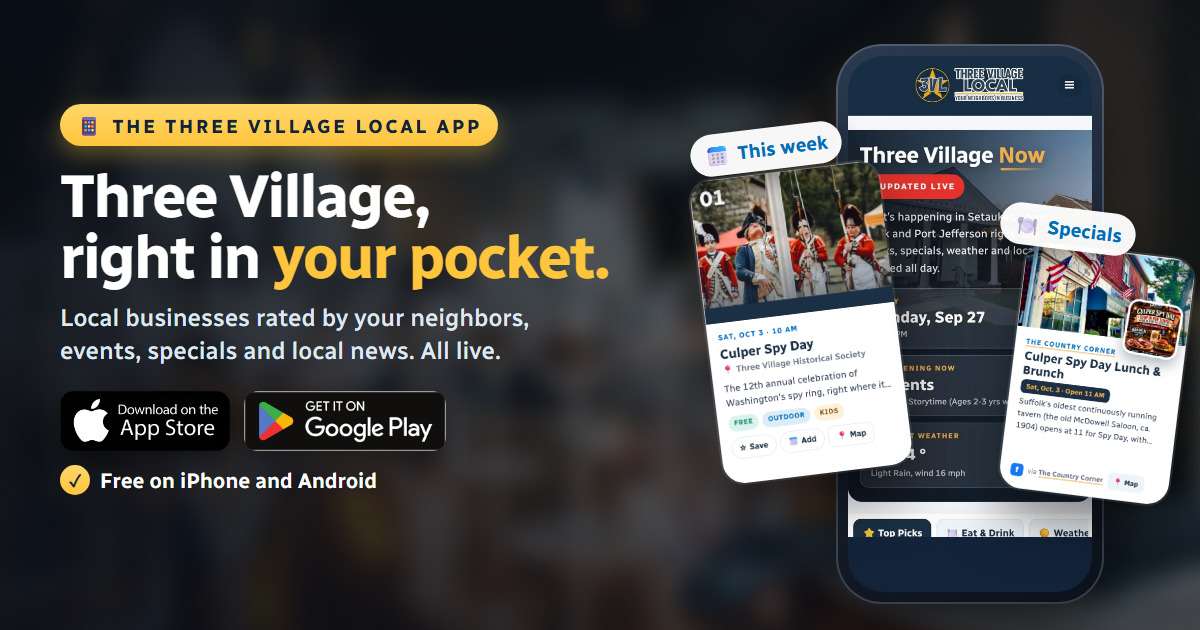
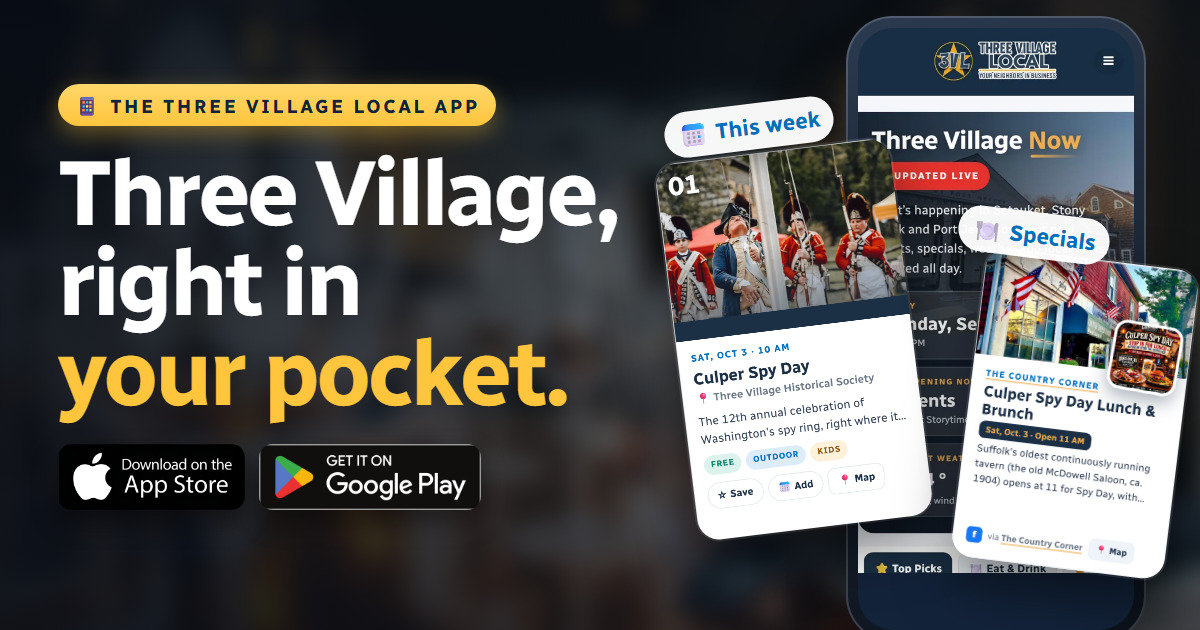
App share image: bigger headline and photos, no small text

diff --git a/weekender/ads/og-app.html b/weekender/ads/og-app.html
@@ -6,30 +6,29 @@ html,body{width:1200px;height:630px;overflow:hidden;background:#0c1624;font-fami
 .og{position:relative;width:1200px;height:630px;overflow:hidden}
 .photo{position:absolute;inset:-60px;background:url(fine12.jpg) center 55%/cover;filter:blur(12px) saturate(1.2) brightness(.95)}
 .vig{position:absolute;inset:0;background:radial-gradient(ellipse at 70% 50%,rgba(8,12,20,.25) 0%,rgba(8,12,20,.5) 55%,rgba(8,12,20,.8) 100%),linear-gradient(90deg,rgba(8,12,20,.78) 0%,rgba(8,12,20,.45) 50%,rgba(8,12,20,.1) 100%)}
-.copy{position:absolute;left:60px;top:104px;width:610px;z-index:5}
+.copy{position:absolute;left:58px;top:84px;width:640px;z-index:5}
 .kick{display:inline-flex;align-items:center;gap:10px;padding:8px 16px;border-radius:999px;background:linear-gradient(180deg,#ffd76a,#ffc53d);color:#13233a;font-size:19px;font-weight:700;letter-spacing:.14em;text-transform:uppercase;box-shadow:0 8px 22px rgba(255,197,61,.35)}
-h1{font-size:60px;font-weight:700;line-height:1.02;letter-spacing:-.03em;margin:20px 0 14px}
+h1{font-size:92px;font-weight:700;line-height:.98;letter-spacing:-.035em;margin:22px 0 26px}
 h1 span{color:#ffc53d;white-space:nowrap}
 .sub{font-size:24px;font-weight:500;line-height:1.35;color:#dfe8f2;max-width:540px}
 .btns{display:flex;gap:14px;margin-top:24px}
-.btns img{height:60px;border-radius:14px;box-shadow:0 12px 26px rgba(0,0,0,.45)}
+.btns img{height:66px;border-radius:14px;box-shadow:0 12px 26px rgba(0,0,0,.45)}
 .free{margin-top:14px;font-size:21px;font-weight:600;color:#fff;display:flex;align-items:center;gap:10px}
 .free i{display:inline-flex;align-items:center;justify-content:center;width:30px;height:30px;border-radius:50%;background:linear-gradient(180deg,#ffd76a,#ffc53d);color:#13233a;font-style:normal;font-weight:800;font-size:17px}
-.phone{position:absolute;left:836px;top:44px;width:268px;height:560px;border-radius:46px;padding:12px;background:linear-gradient(160deg,#2b3a4f,#0b111a);box-shadow:0 40px 80px rgba(0,0,0,.6),inset 0 0 0 2px rgba(255,255,255,.18);z-index:3}
+.phone{position:absolute;left:846px;top:16px;width:300px;height:626px;border-radius:46px;padding:12px;background:linear-gradient(160deg,#2b3a4f,#0b111a);box-shadow:0 40px 80px rgba(0,0,0,.6),inset 0 0 0 2px rgba(255,255,255,.18);z-index:3}
 .screen{width:100%;height:100%;border-radius:35px;background:#13233a url(poster.webp) top/100% auto no-repeat}
 .card{position:absolute;border-radius:22px;overflow:hidden;box-shadow:0 26px 54px rgba(0,0,0,.5),0 0 0 2px rgba(255,255,255,.14);background-size:100% 100%;z-index:4}
-.pick{left:706px;top:170px;width:190px;height:305px;background-image:url(cut_pick.png);transform:rotate(-7deg)}
-.eat{left:1012px;top:250px;width:170px;height:247px;background-image:url(cut_eat.png);transform:rotate(7deg)}
-.tag{position:absolute;z-index:6;display:inline-flex;align-items:center;gap:7px;padding:8px 14px;border-radius:999px;font-size:19px;font-weight:700;color:#13233a;background:rgba(255,255,255,.96);box-shadow:0 10px 24px rgba(0,0,0,.35)}
+.pick{left:676px;top:150px;width:236px;height:379px;background-image:url(cut_pick.png);transform:rotate(-7deg)}
+.eat{left:968px;top:258px;width:214px;height:311px;background-image:url(cut_eat.png);transform:rotate(7deg)}
+.tag{position:absolute;z-index:6;display:inline-flex;align-items:center;gap:7px;padding:8px 14px;border-radius:999px;font-size:22px;font-weight:700;color:#13233a;background:rgba(255,255,255,.96);box-shadow:0 10px 24px rgba(0,0,0,.35)}
 .tag b{color:#006fbb}
-.t1{left:690px;top:128px;transform:rotate(-7deg)}
-.t2{left:1000px;top:208px;transform:rotate(7deg)}
+.t1{left:664px;top:104px;transform:rotate(-7deg)}
+.t2{left:958px;top:212px;transform:rotate(7deg)}
 </style></head><body><div class="og"><div class="photo"></div><div class="vig"></div>
 <div class="copy"><span class="kick">&#128241; The Three Village Local App</span>
-<h1>Three Village,<br>right in <span>your pocket.</span></h1>
-<p class="sub">Local businesses rated by your neighbors, events, specials and local news. <span style="white-space:nowrap">All live.</span></p>
+<h1>Three Village,<br>right in<br><span>your pocket.</span></h1>
 <div class="btns"><img src="as.png"><img src="gp.png"></div>
-<p class="free"><i>&#10003;</i>Free on iPhone and Android</p></div>
+</div>
 <div class="card pick"></div><span class="tag t1">&#128197; <b>This week</b></span>
 <div class="phone"><div class="screen"></div></div>
 <div class="card eat"></div><span class="tag t2">&#127869;&#65039; <b>Specials</b></span>
